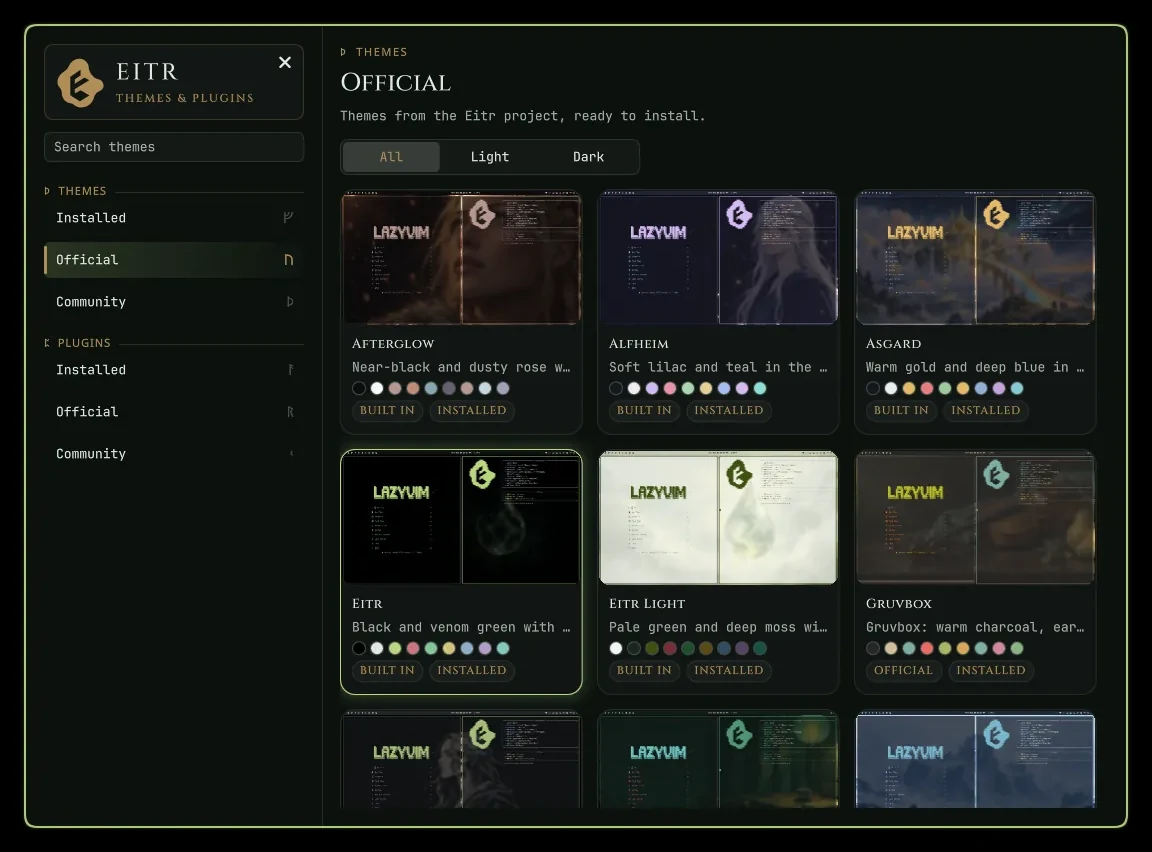
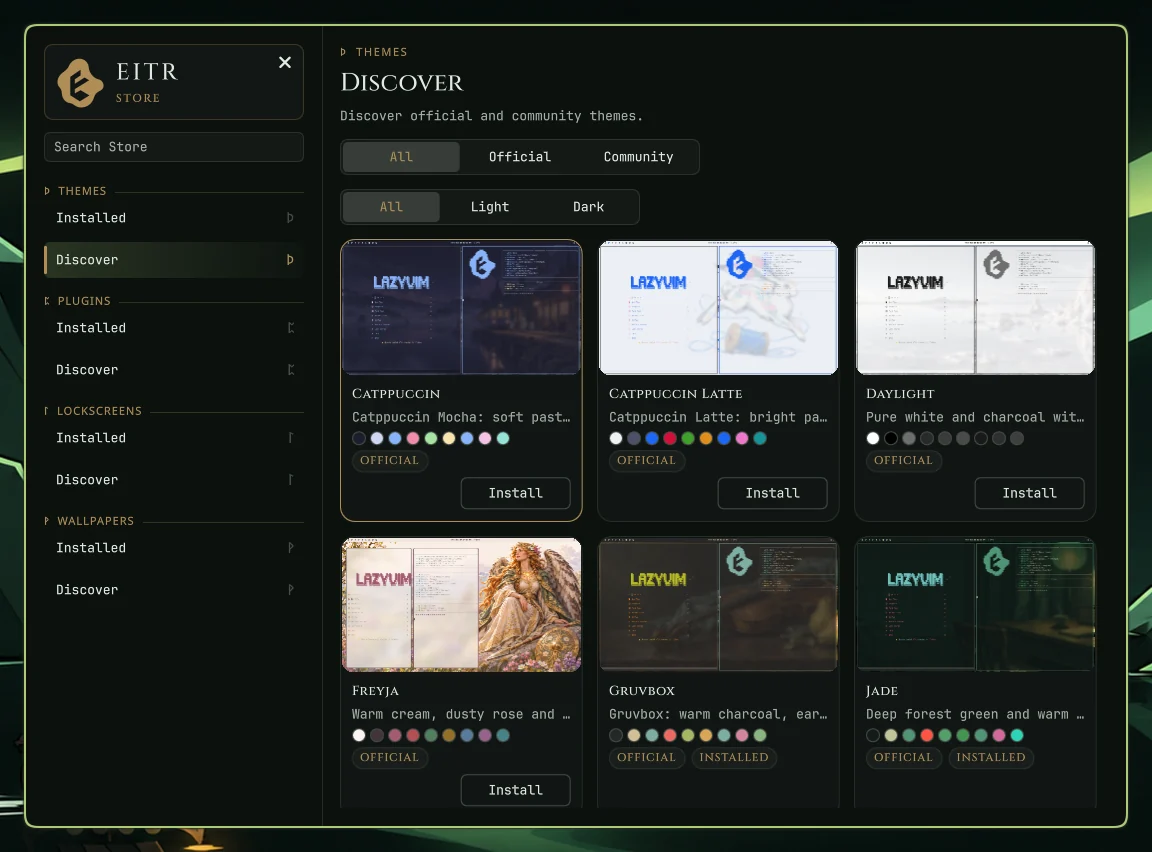
Website: the Eitr Store, Keybinds, Window Rules and Drop in the gallery and features, and the 0.7.2 roadmap entry builds again

diff --git a/website/src/data/screenshots.ts b/website/src/data/screenshots.ts
@@ -39,6 +39,13 @@ export const screenshotGroups = [
         "height": 1080
       },
       {
+        "file": "drop",
+        "caption": "drop_caption",
+        "alt": "drop_alt",
+        "width": 1920,
+        "height": 1080
+      },
+      {
         "file": "focus",
         "caption": "focus_caption",
         "alt": "focus_alt",
@@ -143,6 +150,13 @@ export const screenshotGroups = [
         "height": 852
       },
       {
+        "file": "store-wallpapers",
+        "caption": "store_wallpapers_caption",
+        "alt": "store_wallpapers_alt",
+        "width": 1152,
+        "height": 852
+      },
+      {
         "file": "eitr-light",
         "caption": "eitr_light_caption",
         "alt": "eitr_light_alt",
@@ -175,6 +189,20 @@ export const screenshotGroups = [
         "alt": "walker_the_main_menu",
         "width": 1280,
         "height": 720
+      },
+      {
+        "file": "keybinds",
+        "caption": "keybinds_caption",
+        "alt": "keybinds_alt",
+        "width": 1152,
+        "height": 852
+      },
+      {
+        "file": "window-rules",
+        "caption": "window_rules_caption",
+        "alt": "window_rules_alt",
+        "width": 1152,
+        "height": 852
       },
       {
         "file": "tools",
